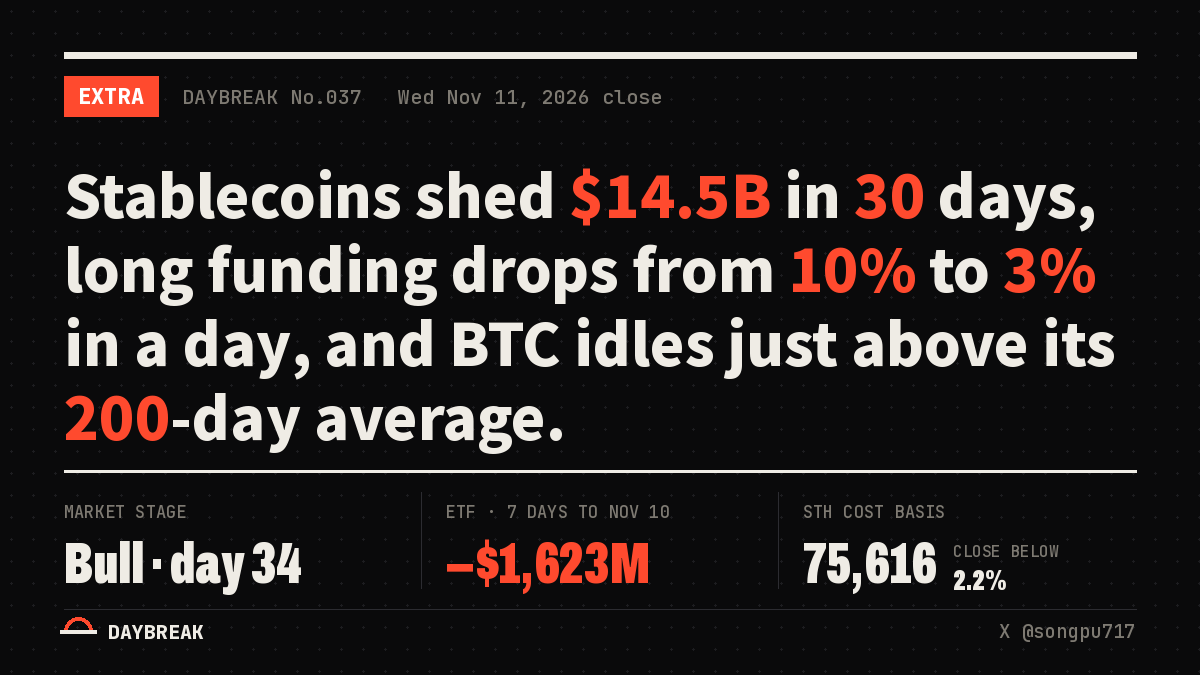
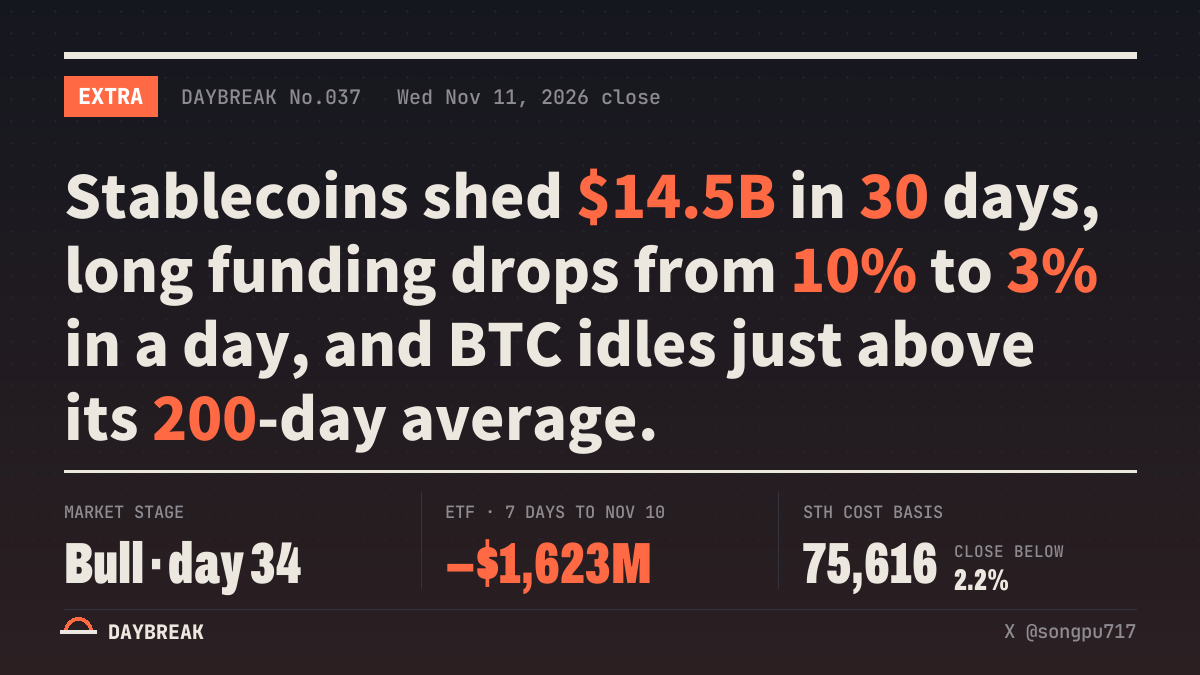
日報分享圖改成「破曉漸層」：純黑太刺眼，改深藍灰往下轉暖
上端 #15171F、下端 #2B1F22，文字 #ECE8E0、次要 #8E8C92、紅 #FF6A45，網點 #22242D。
今天這期的 share.png／share-en.png 一起重畫。

diff --git a/pipeline/share_card.py b/pipeline/share_card.py
@@ -11,9 +11,10 @@ from PIL import Image, ImageDraw, ImageFont
 ROOT = os.path.dirname(os.path.dirname(os.path.abspath(__file__)))
 P = lambda *a: os.path.join(ROOT, *a)
 W, H, M = 1200, 675, 64
-# 2026-11-12：改成深色，配色取自新版網站（pipeline/next/page.html 的 --bg／--ink／--ink3／--brand），底紋同網站的網點
-PAPER, INK, INK3, RED, LINE = '#0A0A0B', '#EFECE5', '#7E7A72', '#FF4A2E', '#2C2C31'
-DOT, DOT_STEP = '#1D1D20', 22   # 網點：約等於網站 ink 12% 疊在底色上
+# 2026-11-12：改成深色。純黑太刺眼，改用「破曉漸層」：上方深藍灰往下轉暖（從夜到天亮），文字略帶暖米色、紅色稍柔；
+# 底紋同網站的網點。PAPER 是漸層上端，PAPER_BOTTOM 是下端
+PAPER, PAPER_BOTTOM, INK, INK3, RED, LINE = '#15171F', '#2B1F22', '#ECE8E0', '#8E8C92', '#FF6A45', '#33343E'
+DOT, DOT_STEP = '#22242D', 22
 NUM = re.compile(r'(\d{1,2}/\d{1,2}(?!\d)|[+\-−$]?\d[\d,.]*(?:\s?(?:%|億|萬|千|兆|倍|個基點|基點|bp|K|M|B)(?![A-Za-z]))?)')
 TXT = {
     'zh': dict(tag='號外', stage='市場階段', etf='ETF 7 個交易日（至 {}）', sth='短期持有者成本', above='收盤在上方', below='收盤在下方', day='第 {} 天',
@@ -49,6 +50,9 @@ def wrap(text, font, width):
 
 def card(lang, latest, notes, F, out):
     T = TXT[lang]; img = Image.new('RGB', (W, H), PAPER); d = ImageDraw.Draw(img)
+    t, b = (tuple(int(c[i:i + 2], 16) for i in (1, 3, 5)) for c in (PAPER, PAPER_BOTTOM))
+    for y in range(H):   # 破曉漸層：由上往下
+        f = y / (H - 1); d.line([(0, y), (W, y)], fill=tuple(round(t[j] + (b[j] - t[j]) * f) for j in range(3)))
     for gy in range(DOT_STEP // 2, H, DOT_STEP):   # 網點底紋
         for gx in range(DOT_STEP // 2, W, DOT_STEP): d.ellipse([gx - 1, gy - 1, gx + 1, gy + 1], fill=DOT)
     d.rectangle([M, 52, W - M, 58], fill=INK)   # 號外粗頂線
